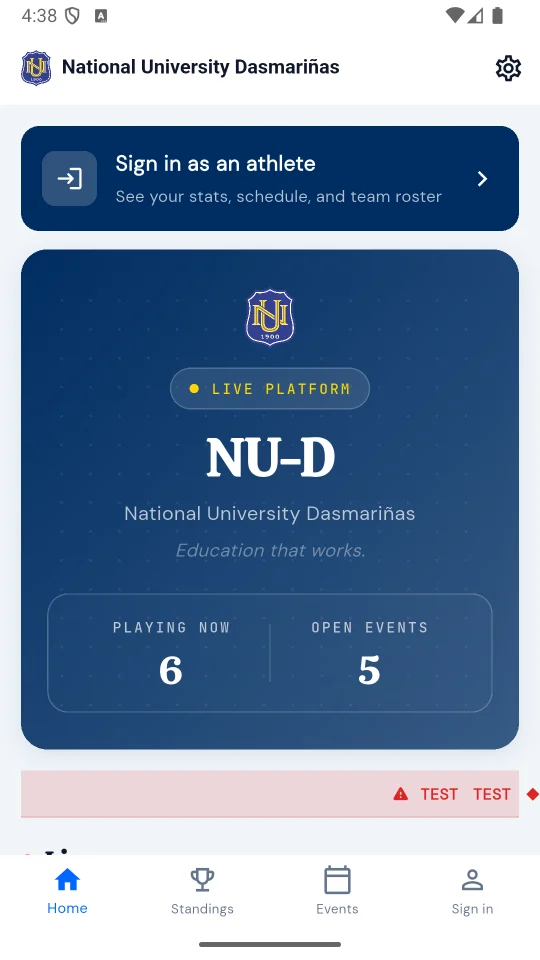
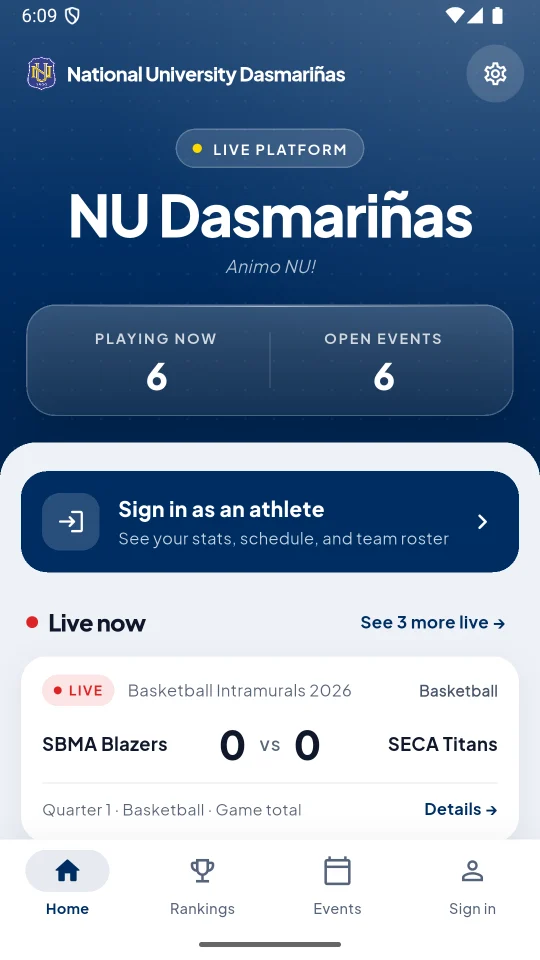
Release 1.10.0: import fixes, indexes, new app screenshots, guest-friendly push prompt
- Student import: organizers can use it (the page offered the button but the API
  answered 403), and rows are limited to the sports the account is assigned to
  (any coach could previously fill any sport's roster). Applies to the preview
  too.
- Migration 078: indexes for the filters used on every page load.
- Android: the notification permission prompt now appears after sign-in, not
  on first launch for guests who can never receive a push.
- /app page screenshots re-captured from the new app (Rankings tab, new
  design, school crest).
- Version 1.10.0 (build 10); production checklist lists migrations 076-078.

diff --git a/apps/server/src/routes/students.ts b/apps/server/src/routes/students.ts
@@ -5,6 +5,7 @@ import { passwordZ } from '../utils/passwordSchema'
 import { studentEmailZ } from '../utils/emailDomain'
 import { normalizeYearLevel, yearLevelErrorMessage } from '../utils/yearLevel'
 import { requireAuth, requireRole, AuthRequest } from '../middleware/auth'
+import { getStaffReadScope, scopeAllowsSport } from '../utils/organizerSportAccess'
 import supabase from '../utils/supabase'
 import { XLSX_MIME, spreadsheetUpload, parseUploadedRows } from '../utils/spreadsheetImport'
 import { createAthleteAuthUser } from '../utils/accountEmail'
@@ -75,7 +76,7 @@ function normalizeImportRow(row: Record<string, unknown>) {
 router.post(
   '/import',
   requireAuth,
-  requireRole('Coach', 'Admin'),
+  requireRole('Organizer', 'Coach', 'Admin'),
   upload.single('file'),
   async (req: AuthRequest, res) => {
     const bodySchema = z.object({
@@ -96,6 +97,11 @@ router.post(
       if (rawRows.length === 0) {
         return res.status(400).json({ error: 'Upload a CSV or Excel file, or provide rows.' })
       }
+
+      // Rows may only add athletes to the sports this account is assigned to --
+      // the import had no sport check at all, so a volleyball coach could fill
+      // the basketball roster.
+      const scope = await getStaffReadScope(req)
 
       const created: Array<{
         student_id: string
@@ -122,6 +128,10 @@ router.post(
             row: idx + 1,
             error: 'Sport is required either in the file row or request body.',
           })
+          continue
+        }
+        if (!scopeAllowsSport(scope, row.sport)) {
+          errors.push({ row: idx + 1, error: 'You are not assigned to this sport.' })
           continue
         }
         // Blank is allowed (year level is optional); anything present must be
@@ -239,7 +249,7 @@ router.post(
 router.post(
   '/import/preview',
   requireAuth,
-  requireRole('Coach', 'Admin'),
+  requireRole('Organizer', 'Coach', 'Admin'),
   upload.single('file'),
   async (req: AuthRequest, res) => {
     const bodySchema = z.object({
@@ -261,6 +271,7 @@ router.post(
         return res.status(400).json({ error: 'Upload a CSV or Excel file, or provide rows.' })
       }
 
+      const scope = await getStaffReadScope(req)
       const seenStudentIds = new Set<string>()
       const preview: Array<{
         row: number
@@ -312,6 +323,16 @@ router.post(
             row: idx + 1,
             valid: false,
             error: 'Sport is required either in the file row or request body.',
+            ...common,
+          })
+          continue
+        }
+
+        if (!scopeAllowsSport(scope, row.sport)) {
+          preview.push({
+            row: idx + 1,
+            valid: false,
+            error: 'You are not assigned to this sport.',
             ...common,
           })
           continue
@@ -373,7 +394,7 @@ router.post(
 router.get(
   '/import-template',
   requireAuth,
-  requireRole('Coach', 'Admin'),
+  requireRole('Organizer', 'Coach', 'Admin'),
   async (_req: AuthRequest, res) => {
     try {
       const wb = new ExcelJS.Workbook()

diff --git a/mobile/lib/services/push_notifications_service.dart b/mobile/lib/services/push_notifications_service.dart
@@ -43,7 +43,6 @@ class PushNotificationsService {
     FirebaseMessaging.onBackgroundMessage(firebaseMessagingBackgroundHandler);
 
     final messaging = FirebaseMessaging.instance;
-    await messaging.requestPermission(alert: true, badge: true, sound: true);
     await _initLocalNotifications();
 
     FirebaseMessaging.onMessage.listen(_showLocalNotification);
@@ -65,9 +64,25 @@ class PushNotificationsService {
     // Re-sync whenever auth state changes (covers already-signed-in at
     // startup, a fresh sign-in, and sign-out leaving no active session to
     // register against) and whenever FCM rotates the token underneath us.
-    Supabase.instance.client.auth.onAuthStateChange.listen((_) => _syncToken());
+    Supabase.instance.client.auth.onAuthStateChange.listen((_) async {
+      await _askPermissionIfSignedIn();
+      await _syncToken();
+    });
     messaging.onTokenRefresh.listen((_) => _syncToken());
+    await _askPermissionIfSignedIn();
     await _syncToken();
+  }
+
+  bool _askedPermission = false;
+
+  /// Shows the system "allow notifications?" prompt, but only once someone has
+  /// signed in. Guests can never receive a push (alerts go to an account's
+  /// team and announcements), so asking them on first launch was a prompt with
+  /// nothing behind it.
+  Future<void> _askPermissionIfSignedIn() async {
+    if (_askedPermission || Supabase.instance.client.auth.currentSession == null) return;
+    _askedPermission = true;
+    await FirebaseMessaging.instance.requestPermission(alert: true, badge: true, sound: true);
   }
 
   Future<void> _initLocalNotifications() async {

diff --git a/apps/web/src/lib/appRelease.ts b/apps/web/src/lib/appRelease.ts
@@ -7,7 +7,7 @@
  * Rename the file before uploading, or this link breaks.
  */
 export const APP_RELEASE = {
-  version: '1.9.0',
+  version: '1.10.0',
   releasedAt: '2026-10-03',
   sizeMb: 57,
   /** Flutter's default minSdk (24) for this project. */

diff --git a/supabase/SMTP.md b/supabase/SMTP.md
@@ -103,6 +103,7 @@ Run `supabase db push` (or paste the files into the SQL editor) for:
 - `073_profiles_issued_password_scheme.sql`, `074_hide_email_from_anon.sql` (if not applied yet)
 - `076_revoke_public_function_access.sql` -- stops the public anon key from calling the score-changing functions.
 - `077_staff_writes_through_api_only.sql` -- coaches/organizers can no longer write team and roster tables directly with their own token.
+- `078_indexes_for_common_filters.sql` -- speeds up the lists and rankings as data grows (safe to re-run).
 
 ### Domain
 
